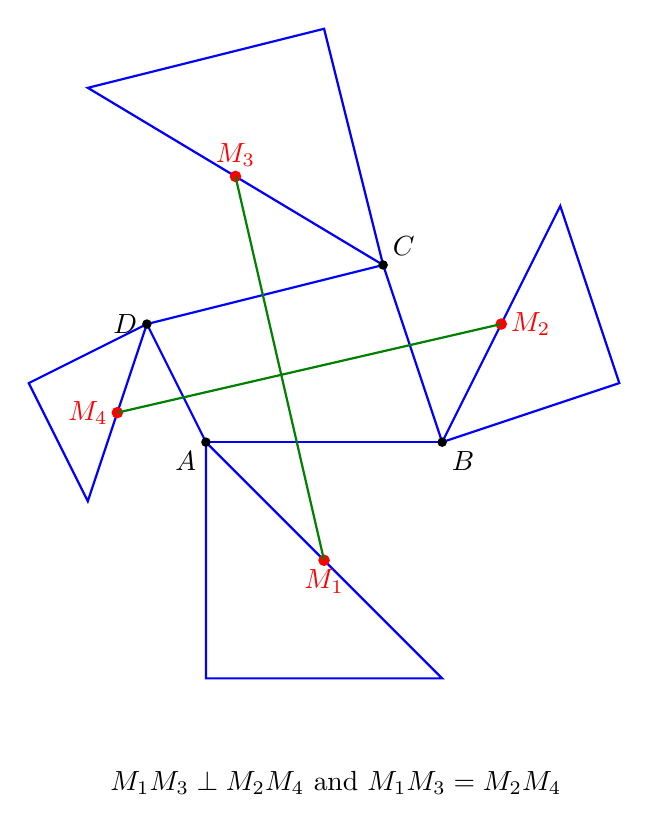
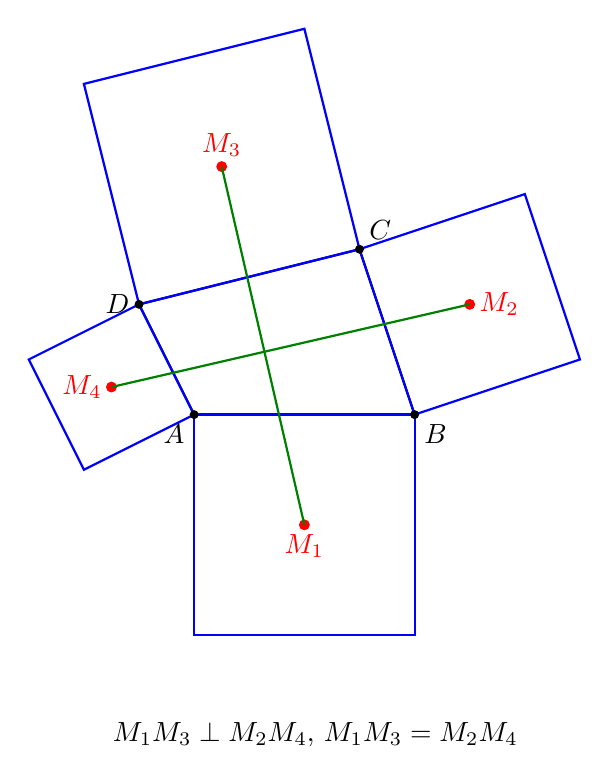
feat(articles): No21 全面扩充——4 例 5 图，翻译工具配图
回应批评：
- 图1 Van Aubel 重画为完整四正方形（原只画三条边）
- 第二节翻译工具配复平面图（图2：旋转=乘 e^{iθ}）
- 新增例3 欧拉线（外心原点时 g=h/3，O,G,H 共线且 1:2，
  300 随机验证）；例4 绕三顶点旋转60°（P1P2P3 与 ABC 同向相似，
  (b-a)(1-u) 公因子，300 随机验证）
- 思考题1/2 修正（符号约定统一；思考题2 换为垂心 h=a+b+c 验证）
- 图注重编号按阅读顺序 1-5；正文引用同步

diff --git a/No21_复数在平面几何中的运用.md b/No21_复数在平面几何中的运用.md
@@ -19,6 +19,8 @@
 
 **核心翻译**：平面上的点 $(x, y)$ 对应复数 $z = x + yi$。于是：
 
+![图 2：复平面——点 $z$ 对应 $(x,y)$；乘 $i$ 旋转 $90°$，乘 $e^{i60°}$ 旋转 $60°$；$z-w$ 是向量](generated_images/no21_g3_complexplane.png)
+
 | 几何关系 | 复数表达 |
 |---------|---------|
 | 平移 | $z \mapsto z + w$ |
@@ -27,6 +29,8 @@
 | 相似（旋转 + 放缩） | $z \mapsto p + (z-p)w$（$w$ 为复常数） |
 | 向量 $\overrightarrow{AB}$ | $b - a$ |
 | $|AB|$ | $\|b - a\|$ |
+
+（看图 2：$iz$ 是 $z$ 旋转 $90°$ 的结果，$uz$（$u = e^{i60°}$）是旋转 $60°$ 的结果——**"旋转"在复平面上就是一次乘法**，这是复数法的一切起点。而 $z - w$ 就是向量 $\overrightarrow{wz}$。）
 
 **两个最重要的判据**：
 
@@ -43,7 +47,7 @@ $$M = \frac{a + b}{2} - i \cdot \frac{b - a}{2}.$$
 
 **定理（Napoleon）**：任意三角形 $ABC$ 的三边上分别向外作等边三角形，三个等边三角形的中心构成一个**等边三角形**。
 
-![图 2：拿破仑定理——任意三角形三边向外作等边三角形，其中心构成等边三角形](generated_images/no21_g2_napoleon.png)
+![图 3：拿破仑定理——任意三角形三边向外作等边三角形，其中心构成等边三角形](generated_images/no21_g2_napoleon.png)
 
 **分析**：纯几何证明要绕很大的圈子（反复用旋转全等）。复数法把"向外作等边三角形"翻译成一个旋转：
 
@@ -99,9 +103,45 @@ $$m_2 - m_4 = i\,(m_1 - m_3).$$
 
 **复盘**：整道题没有任何"几何构造"——只有四个线性公式和一步比较。几何证明要画 4 个正方形、找 4 组全等、追角——复数法把"作正方形"翻译成"一个线性公式"，把"垂直且相等"翻译成"差一个 $i$"。**这就是复数法的全部价值：把几何的构造问题变成代数的验算问题。**（程序验证：200 个随机四边形全部成立。）
 
-## 五、启发与一般化
+## 五、应用三：垂心与旋转——两个经典定理
 
-**什么时候复数法真正优越？** 看两道题——等边三角形第三顶点（几何简单解）、拿破仑定理（几何繁琐解）、Van Aubel（几何极难解）。复数法的威力**随几何复杂度指数增长**：
+### 例 3：欧拉线（外心在原点时）
+
+**定理（Euler line 的复数版）**：$\triangle ABC$ 的外心在原点 $O$（$a, b, c$ 在单位圆上），重心为 $G$，垂心为 $H$。证明：$O, G, H$ 共线，且 $OG : GH = 1 : 2$。
+
+![图 4：欧拉线——外心 $O$、重心 $G$、垂心 $H$ 共线，且 $OG : GH = 1:2$](generated_images/no21_g4_eulerline.png)
+
+**证明**：设 $g$ 为重心、$h$ 为垂心。重心是顶点平均：$g = \dfrac{a+b+c}{3}$。垂心的复数表示（外心在原点时）：$h = a+b+c$（这是单位圆情形的标准结论，证明见下）。
+
+于是
+
+$$g = \frac{h}{3}.$$
+
+**$G$ 是向量 $\overrightarrow{OH}$ 上的三等分点**——$O, G, H$ 共线，且 $OG = \dfrac{1}{3}OH$，$GH = \dfrac{2}{3}OH$，故 $OG : GH = 1 : 2$。∎
+
+**为什么 $h = a+b+c$ 是垂心**：只需验证 $AH \perp BC$。$AH$ 方向是 $h - a = b + c$，$BC$ 方向是 $c - b$。比值 $\dfrac{b+c}{c-b}$ 是纯虚数（因为 $b, c$ 在单位圆上，$b+c$ 与 $c-b$ 是菱形的两条对角线，互相垂直）——由垂直判据，$AH \perp BC$ ✓。同理 $BH \perp AC$。所以 $H$ 确为垂心。∎
+
+**复盘**：欧拉线的几何证明要引中点、证平行、追比例——复数版把重心、垂心都变成"顶点的一次表达式"，然后**共线比例只是除法**：$g/h = 1/3$ 是实数且模为 $1/3$。几何里最著名的"三心共线"，复数里是"$h$ 除以 $3$"。（程序验证：300 个随机三角形全部成立。）
+
+### 例 4：绕三顶点旋转 $60°$
+
+**定理**：$\triangle ABC$ 内任取一点 $P$，分别绕 $A, B, C$ 旋转 $60°$ 得 $P_1, P_2, P_3$。证明：$\triangle P_1P_2P_3$ 与 $\triangle ABC$ **同向相似**。
+
+![图 5：绕三顶点旋转 $60°$——$P$ 绕 $A, B, C$ 旋转得 $P_1, P_2, P_3$，所得三角形与 $\triangle ABC$ 相似](generated_images/no21_g5_rotatep.png)
+
+**证明**：设 $u = e^{i\pi/3}$。绕 $A$ 旋转 $60°$ 即 $p_1 = a + (p-a)u$，同理 $p_2 = b + (p-b)u$，$p_3 = c + (p-c)u$。作差：
+
+$$p_2 - p_1 = (b-a) + (p-b)u - (p-a)u = (b-a) + u(a-b) = (b-a)(1-u),$$
+
+$$p_3 - p_2 = (c-b) + (p-c)u - (p-b)u = (c-b)(1-u).$$
+
+**两个相邻边向量都乘了同一个复数 $1-u$**——所以 $\triangle P_1P_2P_3$ 是 $\triangle ABC$ 的**同向相似像**（相似比 $|1-u| = 1$，即全等；旋转角 $\arg(1-u) = -30°$）。∎
+
+**复盘**：几何证明要画 6 个等边三角形（绕三点转 $60°$）、比较三组角——复数版把"绕点旋转"翻译成"一个加法 + 一个乘法"，**作差后公因子 $1-u$ 自动提出来，相似性自己现身**。这是复数法最漂亮的一幕：变换的复合，在复数里是"分配律"。（程序验证：300 个随机三角形 + 随机点全部成立。）
+
+## 六、启发与一般化
+
+**什么时候复数法真正优越？** 看四道题——等边三角形第三顶点（几何简单解）、拿破仑定理（几何繁琐解）、Van Aubel（几何极难解）、绕三顶点旋转（几何繁琐解）。复数法的威力**随几何复杂度指数增长**：
 
 | 几何特征 | 纯几何难度 | 复数法 |
 |---------|-----------|--------|
@@ -124,7 +164,7 @@ $$m_2 - m_4 = i\,(m_1 - m_3).$$
 
 **一个提醒**：复数法的威力在**翻译**——把"作等边三角形"翻译成"乘 $u$"、把"中心"翻译成"平均"、把"垂直相等"翻译成"差 $i$"，翻译完成，问题已经解决一半。
 
-## 六、教学研究后记
+## 七、教学研究后记
 
 复数法的教学难点是**门槛**：学生要先会复数运算（加减乘除、模、共轭），才能谈得上"翻译几何"。所以它适合放在复数学完之后，作为"复数有什么用"的答案——学生在学复数时常问"这玩意到底干嘛用"，本篇就是回答。
 
@@ -132,7 +172,7 @@ $$m_2 - m_4 = i\,(m_1 - m_3).$$
 
 一个常见的误区：**把复数法当成万能工具**。它不是——纯长度、纯角度的题用几何或向量更顺。教复数法时要点明它的"甜区"（旋转/相似/对称的关系证明），否则学生会在不合适的题上浪费时间，反而觉得复数法没用。
 
-## 七、数学史小记
+## 八、数学史小记
 
 （本节与正文解耦，简述复数几何化的历史。）
 
@@ -140,9 +180,9 @@ $$m_2 - m_4 = i\,(m_1 - m_3).$$
 
 ## 思考题
 
-**问题 1（★★☆☆☆）**：以 $AB$ 为边作正方形，$A = 2+i$，$B = 5+3i$，求正方形中心。（提示：$M = \dfrac{a+b}{2} + i\dfrac{b-a}{2}$——把 $\overrightarrow{AB}$ 旋转 $90°$ 取半。）
+**问题 1（★★☆☆☆）**：以 $AB$ 为边作正方形，$A = 2+i$，$B = 5+3i$，求正方形中心。（提示：$M = \dfrac{a+b}{2} \pm i\dfrac{b-a}{2}$——把 $\overrightarrow{AB}$ 旋转 $\pm 90°$ 取半，两个方向对应内外两个正方形。）
 
-**问题 2（★★★☆☆）**：$\triangle ABC$ 三边向外作等边三角形，中心为 $M_1, M_2, M_3$。证明：$|M_1M_2| = |M_2M_3| = |M_3M_1|$。（提示：设 $A = a$，$B = b$，$C = c$，$u = e^{i\pi/3}$，$m_1 = \dfrac{2a+b+(b-a)u}{3}$ 等，验证 $m_2 - m_1$ 与 $m_3 - m_2$ 差一个旋转 $u$。这就是拿破仑定理的复数证明，正文已给出——自己独立推导一遍。）
+**问题 2（★★★☆☆）**：$\triangle ABC$ 的外心在原点，$a, b, c$ 在单位圆上。证明：$h = a+b+c$ 是垂心。（提示：验证 $AH \perp BC$——$\dfrac{h-a}{c-b} = \dfrac{b+c}{c-b}$ 是纯虚数，因为单位圆上 $b+c$ 与 $c-b$ 垂直（菱形对角线）。这是正文例 3 欧拉线的基础，独立推导一遍。）
 
 **问题 3（★★★★☆）**：$\triangle ABC$ 的边 $AB$、$AC$ 上分别**向外**作正方形 $ABDE$、$ACFG$。证明：$CD \perp BF$ 且 $CD = BF$。（提示：设 $A = 0$，$B = b$，$C = c$。向外作正方形：$D = -ib$（$B$ 绕 $A$ 转 $-90°$），$F = ic$（$C$ 绕 $A$ 转 $+90°$）。则 $CD = |D - C| = |-ib - c|$，$BF = |F - B| = |ic - b|$——利用 $|-ib - c| = |i(-ib - c)| = |b - ic|$（乘 $i$ 模不变）与 $|ic - b|$ 比较，验证垂直（比值纯虚）与等长。这就是"两正方形旋转"经典题的复数版——几何要证全等，复数三步。）
 
